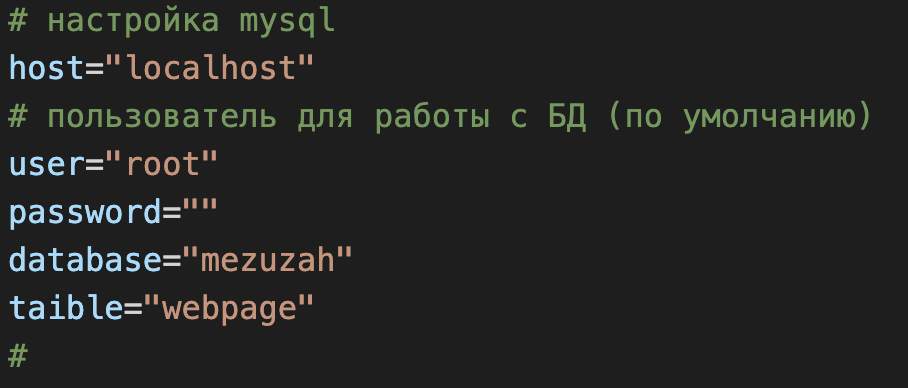
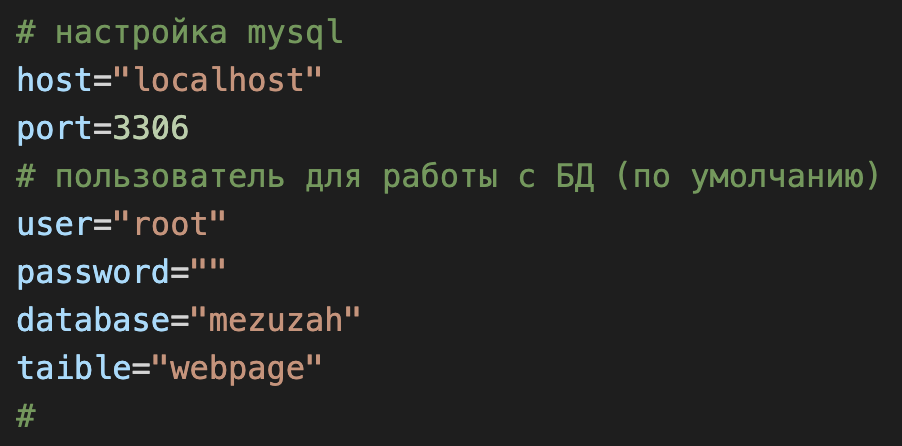
add config port

diff --git a/src/sql.py b/src/sql.py
@@ -13,8 +13,9 @@ import mysql.connector
 # создаём класс для удбной работы с БД
 class DatabaseConnector:
     # конструктор (инициализация переменных и создание БД)
-    def __init__(self, host, user, password, database):
+    def __init__(self, host, port, user, password, database):
         self.host = host
+        self.port = port
         self.user = user
         self.password = password
         self.database = database
@@ -24,22 +25,26 @@ class DatabaseConnector:
         # создаём бд 
         try:
             #  Устанавливаем соединение с MySQL
-            connection = mysql.connector.connect(
+            self.connection = mysql.connector.connect(
             host=self.host,
+            port=self.port,
             user=self.user,
             password=self.password)
                             
             # Создаем объект cursor для выполнения SQL-запросов
-            cursor = connection.cursor()
+            self.cursor = self.connection.cursor()
             # Создаем базу данных 'mezuzah', если она еще не существует
             cretDB = f"CREATE DATABASE IF NOT EXISTS {self.database}"
-            cursor.execute(cretDB)
+            self.cursor.execute(cretDB)
             # Закрываем соединение с MySQL
-            cursor.close()
-            connection.close()
+            self.cursor.close()
+            self.connection.close()
         except mysql.connector.Error as err:
             print(f"Произошла ошибка при создании базы данных: {err}")
             print(f"Проверьте включен ли mysql")
+
+
+
         
 
     # ф-я подключения к БД
@@ -48,6 +53,7 @@ class DatabaseConnector:
             
             self.connection = mysql.connector.connect(
                 host=self.host,
+                port=self.port,
                 user=self.user,
                 password=self.password,
                 database=self.database
@@ -102,4 +108,4 @@ class DatabaseConnector:
         insert_query = "INSERT INTO webpage (site, title, href) VALUES (%s, %s, %s)"
         insert_params = (site, title, href)
         return self.execute_query(insert_query, insert_params)
-    
+  

diff --git a/src/main.py b/src/main.py
@@ -8,9 +8,10 @@
 
 # настройка mysql
 host="localhost" 
+port=3306 
 # пользователь для работы с БД (по умолчанию)
 user="root" 
-password=""
+password="" 
 database="mezuzah"        
 taible="webpage"        
 #
@@ -115,7 +116,7 @@ def insert_results_to_db():
     try:
 
         # Создаем объект класса DatabaseConnector
-        db_connector = DatabaseConnector(host=host, user=user, password=password, database=database)
+        db_connector = DatabaseConnector(host=host, port=port, user=user, password=password, database=database)
         # подключаемся к БД
         db_connector.connect() 
 
